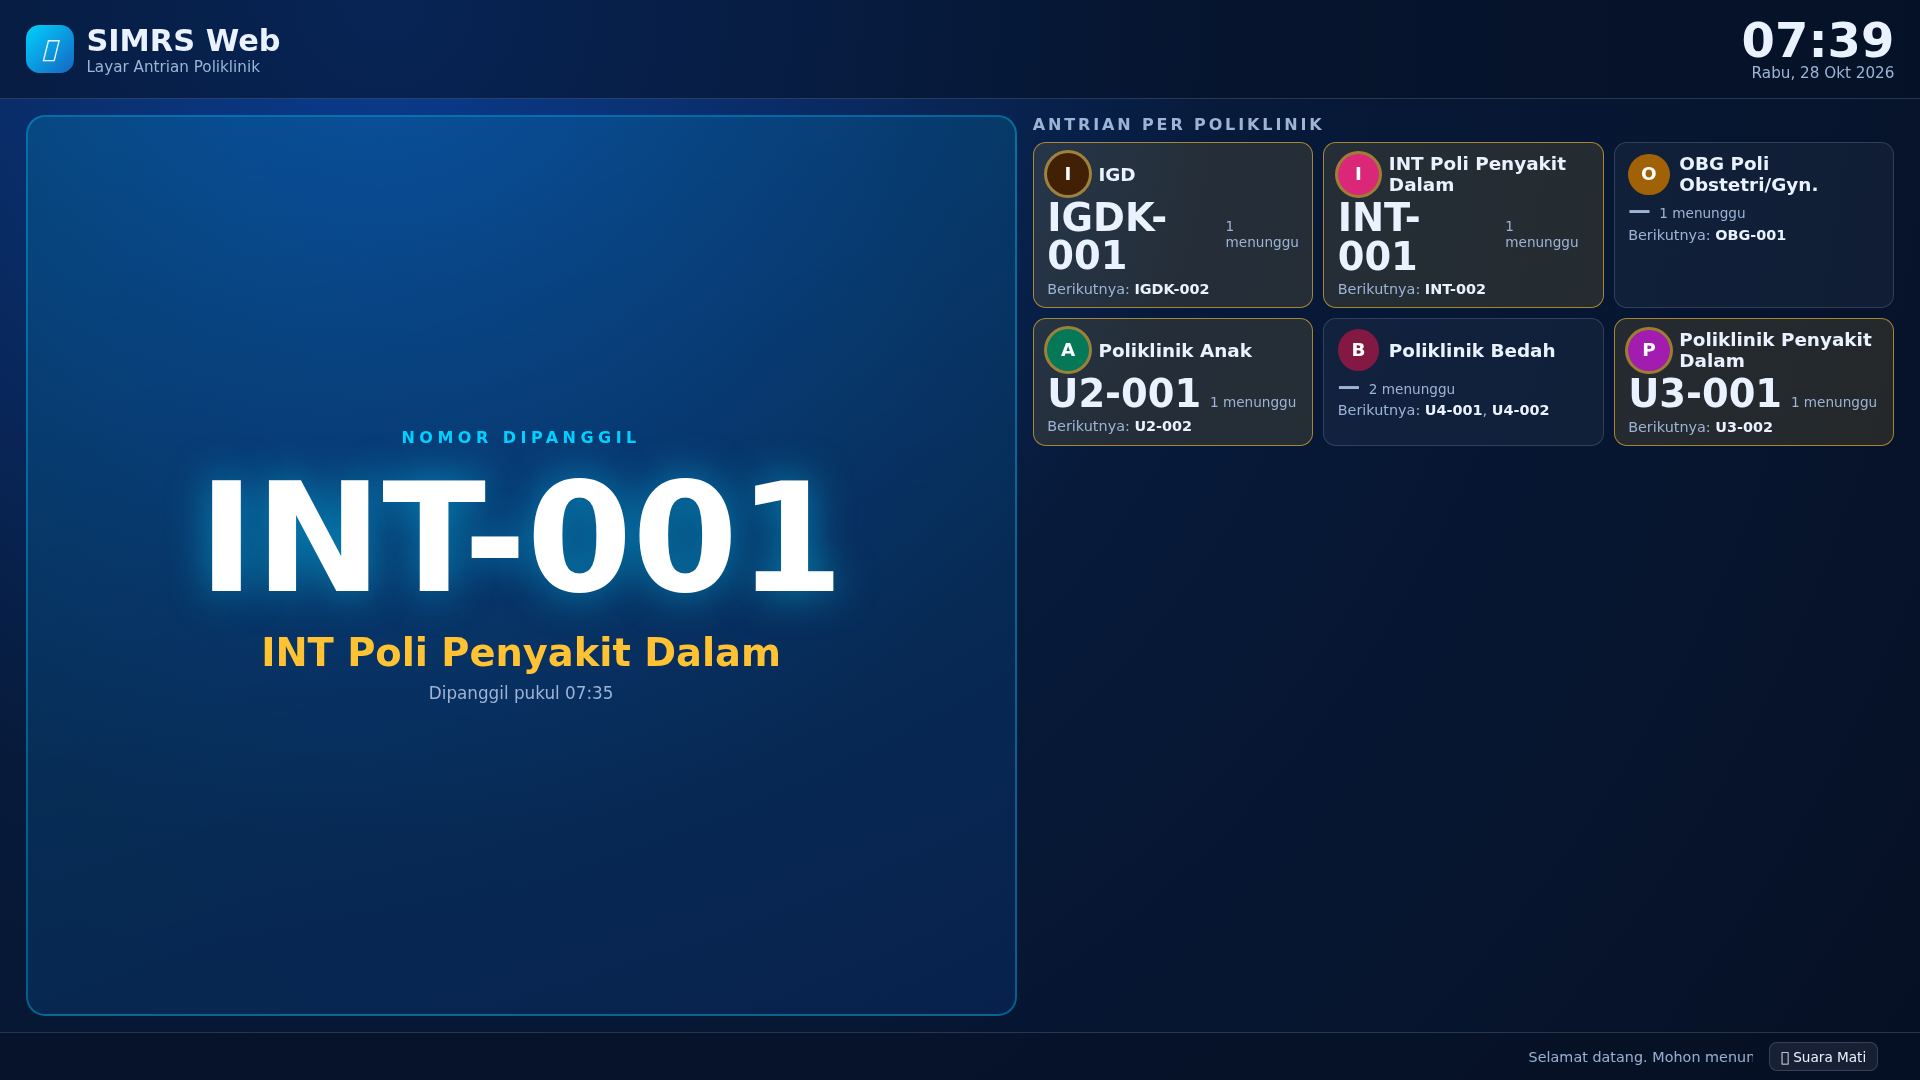
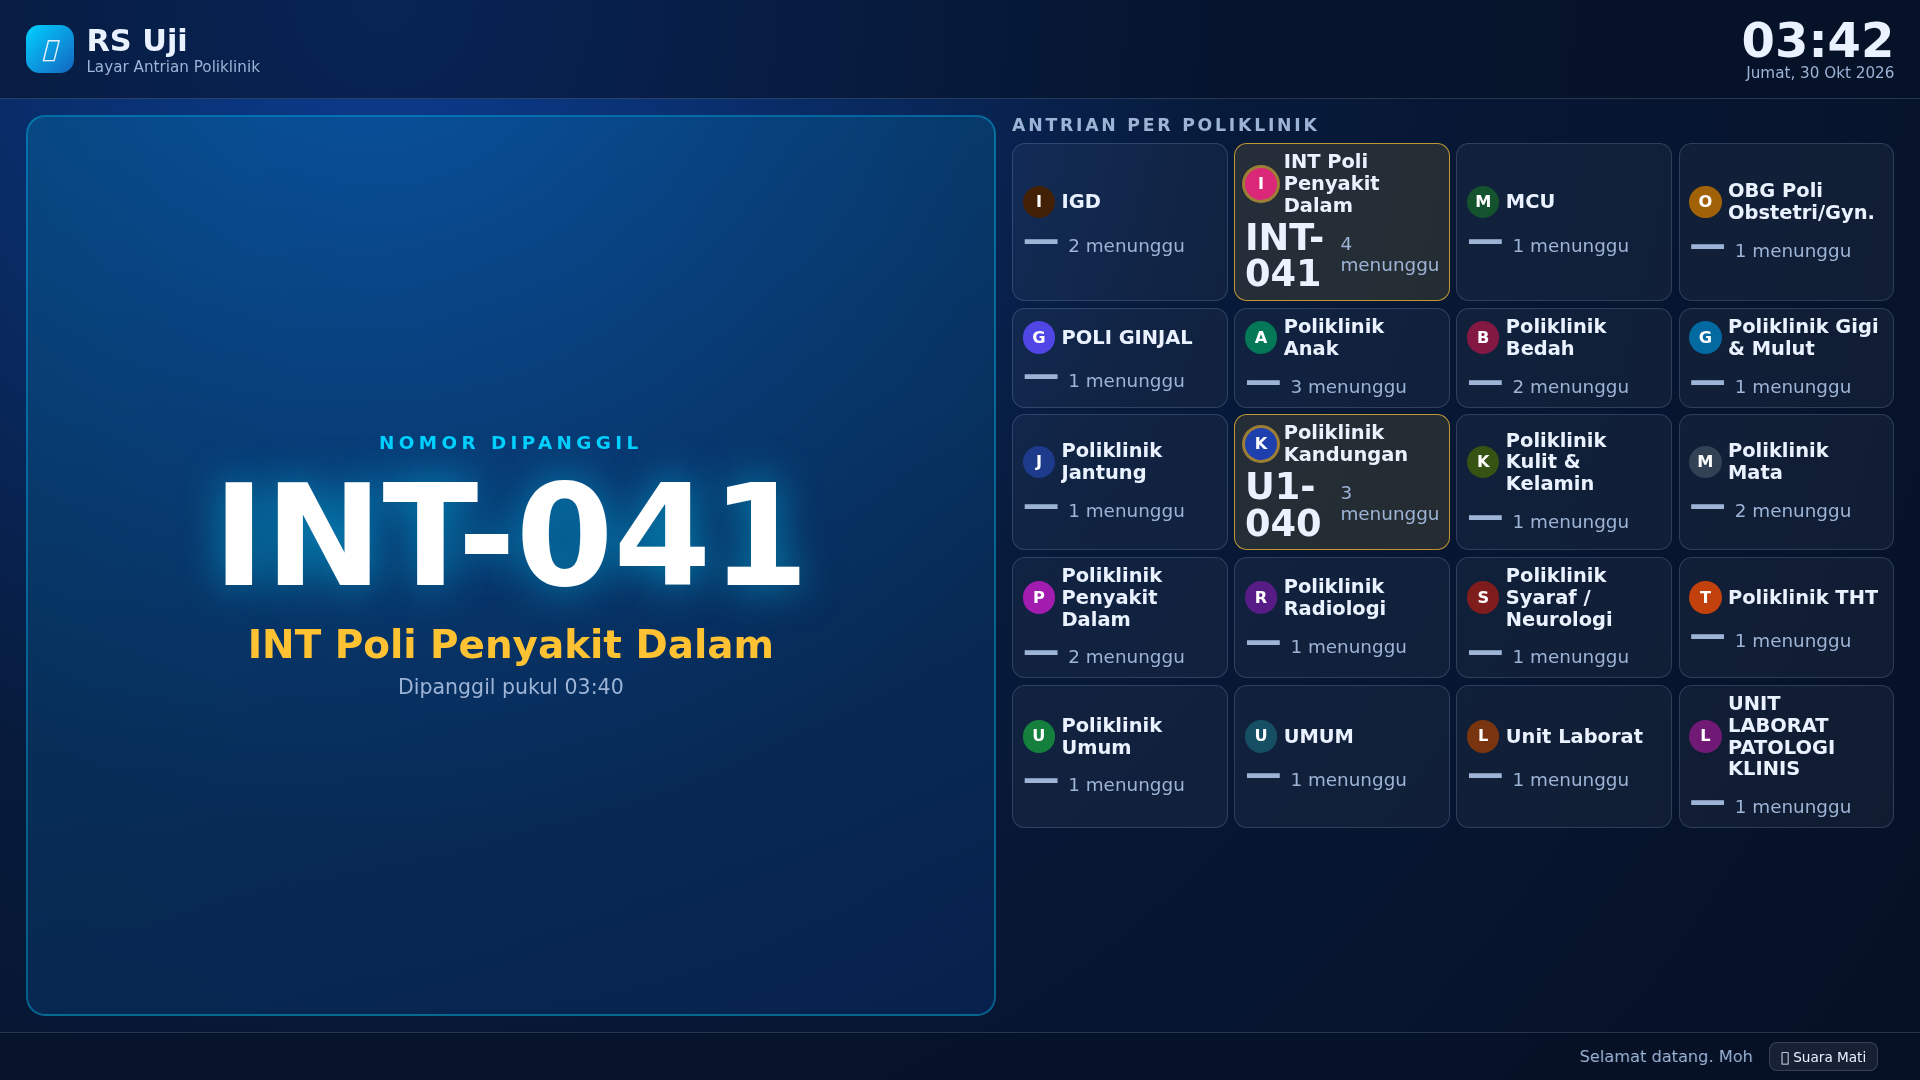
fix(display): perbaiki keterbacaan dan tata letak layar antrian ruang tunggu
Layar TV ruang tunggu dibaca dari jauh oleh pasien, jadi ukuran huruf dan
kelengkapan isi lebih penting daripada di halaman lain. Audit pada resolusi
TV nyata menemukan empat masalah:

1. Teks sekunder terlalu kecil untuk dibaca dari jauh. Skala memakai `vw`,
   sehingga pada 1080p hanya menyisakan 13-18px: "5 menunggu" 13,6px,
   "Berikutnya" 14,4px, nama poliklinik 18,4px. Skala diubah ke `vmin`
   (sisi terpendek layar), yang juga membuat ukuran stabil di TV 4:3 dan
   16:9: angka kartu 22,4 -> 36,7px, teks sekunder -> 18,4px.

2. Isi terpotong dan tidak bisa dijangkau. Daftar poliklinik memakai
   `minmax(15rem)` dengan `overflow:auto`, sehingga pada 1366x768 dan
   1280x720 ada 176-207px isi tersembunyi — poliklinik baris bawah tidak
   pernah terlihat, dan tidak ada yang bisa menggulir layar TV. Lebar kolom
   minimum diturunkan dan grid dibuat mengisi tinggi yang tersedia
   (`auto-fit`), sehingga semua poliklinik tampil tanpa gulir.

3. Nama poliklinik terpotong. Kartu hanya selebar 191px sementara namanya
   memakai font 28,8px, jadi "Poliklinik Penyakit Dalam" terpangkas sebelum
   kata pembedanya ("Dalam"). Font nama dipatok maksimum 1,5rem dan nama
   dibungkus `.nm-teks` dengan batas 3 baris, sehingga nama utuh.

4. Tinggi kartu tidak seragam karena jumlah baris nama berbeda-beda, jadi
   kartu tampak tidak rapi. Isi kartu kini ditengahkan vertikal.

Untuk rumah sakit dengan banyak poliklinik, ditambahkan mode rapat otomatis
[…]

diff --git a/pages/display.php b/pages/display.php
@@ -118,7 +118,7 @@ $nomorDipanggil = $panggilan !== null ? antrian_nomor_tampil((int)$panggilan['no
     .disp-clock .jam { font-size: clamp(1.6rem, 3.4vw, 3rem); font-weight: 700; font-variant-numeric: tabular-nums; line-height: 1; }
     .disp-clock .tanggal { color: var(--disp-muted); font-size: clamp(.7rem, 1vw, .95rem); }
 
-    .disp-main { flex: 1; display: grid; grid-template-columns: 1.15fr 1fr; gap: 1rem; padding: 1rem 1.6rem; min-height: 0; }
+    .disp-main { flex: 1; display: grid; grid-template-columns: 1.1fr 1fr; gap: 1rem; padding: 1rem 1.6rem; min-height: 0; }
 
     .disp-now {
       border-radius: 1.2rem;
@@ -127,49 +127,80 @@ $nomorDipanggil = $panggilan !== null ? antrian_nomor_tampil((int)$panggilan['no
       display: flex; flex-direction: column; align-items: center; justify-content: center;
       padding: 1rem; text-align: center; min-height: 0;
     }
-    .disp-now .label { color: var(--disp-accent); letter-spacing: .28em; text-transform: uppercase; font-size: clamp(.65rem, 1.1vw, 1rem); font-weight: 600; }
+    .disp-now .label { color: var(--disp-accent); letter-spacing: .24em; text-transform: uppercase; font-size: clamp(.8rem, 1.7vmin, 1.5rem); font-weight: 600; }
     .disp-now .nomor {
-      /* Nomor kini memuat kode poliklinik ("INT-007"), jadi ukurannya lebih kecil
-         dari sebelumnya supaya tetap muat satu baris di layar TV. */
-      font-size: clamp(2.6rem, 10.5vw, 9.5rem); font-weight: 800; line-height: 1;
+      /* Nomor memuat kode poliklinik ("INT-007"), dan skalanya dipatok ke sisi
+         terpendek layar (vmin) supaya tetap muat satu baris di TV 16:9 mana pun. */
+      font-size: clamp(2.4rem, 13vmin, 9rem); font-weight: 800; line-height: 1;
       font-variant-numeric: tabular-nums;
       color: #fff; text-shadow: 0 0 42px rgba(0, 209, 255, .55);
       margin: .1em 0;
     }
-    .disp-now .poli { font-size: clamp(1.1rem, 2.6vw, 2.4rem); font-weight: 600; color: var(--disp-gold); }
-    .disp-now .menunggu { color: var(--disp-muted); font-size: clamp(.75rem, 1.1vw, 1.05rem); margin-top: .5rem; }
-    .disp-now .kosong { color: var(--disp-muted); font-size: clamp(1rem, 2vw, 1.6rem); }
+    .disp-now .poli { font-size: clamp(1.1rem, 3.6vmin, 3.4rem); font-weight: 600; color: var(--disp-gold); }
+    .disp-now .menunggu { color: var(--disp-muted); font-size: clamp(.8rem, 1.9vmin, 1.6rem); margin-top: .5rem; }
+    .disp-now .kosong { color: var(--disp-muted); font-size: clamp(1rem, 2.4vmin, 2rem); }
 
     .disp-list { display: flex; flex-direction: column; min-height: 0; }
-    .disp-list h2 { margin: 0 0 .5rem; font-size: clamp(.75rem, 1.1vw, 1rem); letter-spacing: .18em; text-transform: uppercase; color: var(--disp-muted); }
-    .disp-cards { flex: 1; display: grid; grid-template-columns: repeat(auto-fill, minmax(15rem, 1fr)); gap: .6rem; overflow: auto; align-content: start; }
+    .disp-list h2 { margin: 0 0 .5rem; font-size: clamp(.75rem, 1.6vmin, 1.3rem); letter-spacing: .16em; text-transform: uppercase; color: var(--disp-muted); }
+    /* Semua poliklinik harus terlihat tanpa digulir: layar TV tidak dioperasikan
+       siapa pun, jadi isi di bawah lipatan sama saja hilang. Lebar kolom dibuat
+       kecil supaya jumlah kolom bertambah saat tinggi layar berkurang. */
+    .disp-cards { flex: 1; display: grid; grid-template-columns: repeat(auto-fit, minmax(min(100%, 11rem), 1fr)); gap: .55rem; overflow: auto; align-content: start; }
+    .disp-cards::-webkit-scrollbar { width: 8px; }
+    .disp-cards::-webkit-scrollbar-thumb { background: var(--disp-line); border-radius: 999px; }
+    /* Rumah sakit besar bisa punya >12 poliklinik aktif. Tanpa mode rapat,
+       poliklinik di baris bawah terpotong dan pasiennya tidak melihat nomornya.
+       Mode ini menyempitkan kolom, merapatkan jarak, dan melepas baris
+       "Berikutnya" — nomor berjalan dan jumlah menunggu tetap ditampilkan. */
+    .disp-cards.padat { grid-template-columns: repeat(auto-fit, minmax(min(100%, 8.75rem), 1fr)); gap: .4rem; }
+    .disp-cards.padat .disp-card { padding: .45rem .6rem; }
+    .disp-cards.padat .disp-card .next { display: none; }
+    .disp-cards.padat .disp-card .nm { font-size: clamp(.75rem, 1.8vmin, 1.5rem); margin-bottom: .2rem; }
+    /* Baris "Berikutnya" dilepas di mode rapat, jadi ada ruang untuk baris nama
+       keempat. Nama terpanjang ("UNIT LABORAT PATOLOGI KLINIS") butuh ini. */
+    .disp-cards.padat .disp-card .nm-teks { -webkit-line-clamp: 4; }
+
     .disp-card {
       border: 1px solid var(--disp-line); border-radius: .8rem;
       background: rgba(255, 255, 255, .045);
-      padding: .65rem .85rem;
+      padding: .6rem .75rem;
+      display: flex; flex-direction: column; justify-content: center; min-width: 0;
     }
     .disp-card.aktif { border-color: rgba(255, 194, 51, .6); background: rgba(255, 194, 51, .12); }
-    .disp-card .nm { display: flex; align-items: center; gap: .6rem; font-weight: 600; font-size: clamp(.85rem, 1.3vw, 1.15rem); margin-bottom: .25rem; }
+    .disp-card .nm { display: flex; align-items: center; gap: .4rem; font-weight: 600; font-size: clamp(.8rem, 1.6vmin, 1.5rem); line-height: 1.12; margin-bottom: .3rem; min-width: 0; }
+    /* Nama poliklinik adalah penanda utama bagi pasien, jadi jangan dipotong:
+       "INT Poli Penyakit Dalam" tidak boleh terpangkas jadi "...Penyakit".
+       Tiga baris cukup untuk semua nama di data, dan nama tetap utuh. */
+    .disp-card .nm-teks {
+      display: -webkit-box; -webkit-line-clamp: 3; -webkit-box-orient: vertical;
+      overflow: hidden; min-width: 0; overflow-wrap: anywhere;
+    }
     /* Pemisah warna per poliklinik — disalin dari simrs.css karena halaman ini
        sengaja tidak memuat CSS aplikasi. Warna tetap sama dengan modul Antrian. */
     .sk-poli-mark {
       display: inline-flex; align-items: center; justify-content: center;
-      width: 2.6rem; height: 2.6rem; flex: none; border-radius: 999px;
+      width: clamp(1.6rem, 3vmin, 2.6rem); height: clamp(1.6rem, 3vmin, 2.6rem);
+      flex: none; border-radius: 999px;
       background: var(--sk-poli, #0e7490); color: #fff;
-      font-size: 1.15rem; font-weight: 700; line-height: 1;
+      font-size: clamp(.75rem, 1.5vmin, 1.3rem); font-weight: 700; line-height: 1;
     }
     .disp-card.aktif .sk-poli-mark { box-shadow: 0 0 0 3px rgba(255, 194, 51, .55); }
+    @keyframes dispDenyut { 0%, 100% { border-color: rgba(255, 194, 51, .6); } 50% { border-color: rgba(255, 194, 51, 1); } }
+    .disp-card.aktif { animation: dispDenyut 2.2s ease-in-out infinite; }
+    @media (prefers-reduced-motion: reduce) { .disp-card.aktif { animation: none; } }
     .disp-card .baris { display: flex; align-items: baseline; gap: .55rem; }
-    .disp-card .angka { font-size: clamp(1.5rem, 2.8vw, 2.4rem); font-weight: 700; font-variant-numeric: tabular-nums; line-height: 1; }
-    .disp-card .angka.kosong { color: var(--disp-muted); font-size: 1.4rem; }
-    .disp-card .kecil { color: var(--disp-muted); font-size: clamp(.65rem, .9vw, .85rem); }
-    .disp-card .next { color: var(--disp-muted); font-size: clamp(.68rem, .95vw, .9rem); margin-top: .3rem; }
+    .disp-card .angka { font-size: clamp(1.3rem, 3.4vmin, 3.2rem); font-weight: 700; font-variant-numeric: tabular-nums; line-height: 1; }
+    /* Kartu yang belum dipanggil memakai ukuran sama, hanya diredupkan — ukuran
+       kecil membuat kartu tampak kosong saat dibaca dari jauh. */
+    .disp-card .angka.kosong { color: var(--disp-muted); }
+    .disp-card .kecil { color: var(--disp-muted); font-size: clamp(.7rem, 1.7vmin, 1.4rem); }
+    .disp-card .next { color: var(--disp-muted); font-size: clamp(.7rem, 1.7vmin, 1.4rem); margin-top: .3rem; }
     .disp-card .next b { color: var(--disp-fg); }
 
     .disp-footer {
       display: flex; align-items: center; justify-content: space-between; gap: 1rem;
       padding: .55rem 1.6rem; border-top: 1px solid var(--disp-line);
-      background: rgba(6, 16, 36, .6); font-size: clamp(.68rem, .95vw, .9rem); color: var(--disp-muted);
+      background: rgba(6, 16, 36, .6); font-size: clamp(.7rem, 1.5vmin, 1.1rem); color: var(--disp-muted);
     }
     .disp-ticker { flex: 1; overflow: hidden; white-space: nowrap; }
     .disp-ticker span { display: inline-block; padding-left: 100%; animation: ticker 28s linear infinite; }
@@ -181,6 +212,21 @@ $nomorDipanggil = $panggilan !== null ? antrian_nomor_tampil((int)$panggilan['no
     }
     .disp-btn[aria-pressed="true"] { border-color: var(--disp-accent); color: var(--disp-accent); }
     .disp-status { flex: none; }
+    /* Layar tinggi (1080p ke atas) punya ruang vertikal berlebih, jadi kolom
+       dibuat lebar agar nama poliklinik tidak terpotong. */
+    @media (min-height: 1000px) {
+      /* Layar tinggi: kolom dilebarkan (bukan diperbanyak) supaya nama poliklinik
+         tidak terpotong di monitor 1440p ke atas. */
+      .disp-cards { grid-template-columns: repeat(auto-fit, minmax(min(100%, 14rem), 1fr)); }
+      .disp-cards.padat { grid-template-columns: repeat(auto-fit, minmax(min(100%, 13rem), 1fr)); }
+    }
+    @media (max-height: 800px) {
+      /* Layar pendek: beri daftar lebih banyak lebar supaya kolom bertambah dan
+         barisnya berkurang — tinggi layar, bukan lebar, yang jadi kendala. */
+      .disp-main { grid-template-columns: .6fr 1fr; padding: .7rem 1.2rem; gap: .7rem; }
+      .disp-list h2 { margin-bottom: .35rem; }
+      .disp-cards { gap: .45rem; }
+    }
     @media (max-width: 900px) { .disp-main { grid-template-columns: 1fr; } }
   </style>
 </head>
@@ -215,11 +261,11 @@ $nomorDipanggil = $panggilan !== null ? antrian_nomor_tampil((int)$panggilan['no
 
     <section class="disp-list">
       <h2>Antrian per Poliklinik</h2>
-      <div class="disp-cards" id="daftarPoli">
+      <div class="disp-cards<?= count($ringkasan) > 12 ? ' padat' : '' ?>" id="daftarPoli">
         <?php foreach ($ringkasan as $r): ?>
           <?php $dipanggil = $r['nomor_dipanggil']; ?>
           <article class="disp-card<?= $dipanggil !== null ? ' aktif' : '' ?>" style="--sk-poli: <?= e(poli_warna((string)$r['kd_poli'])) ?>">
-            <div class="nm"><span class="sk-poli-mark sk-poli-mark-lg"><?= e(poli_awalan((string)$r['nm_poli'], (string)$r['kd_poli'])) ?></span><?= e($r['nm_poli']) ?></div>
+            <div class="nm"><span class="sk-poli-mark sk-poli-mark-lg"><?= e(poli_awalan((string)$r['nm_poli'], (string)$r['kd_poli'])) ?></span><span class="nm-teks"><?= e($r['nm_poli']) ?></span></div>
             <div class="baris">
               <?php if ($dipanggil !== null): ?>
                 <span class="angka"><?= e(antrian_nomor_tampil((int)$dipanggil, (string)$r['kd_poli'])) ?></span>
@@ -239,7 +285,7 @@ $nomorDipanggil = $panggilan !== null ? antrian_nomor_tampil((int)$panggilan['no
           </article>
         <?php endforeach; ?>
         <?php if (!$adaAntrian): ?>
-          <div class="disp-card"><div class="nm">Belum ada antrian hari ini</div>
+          <div class="disp-card"><div class="nm"><span class="nm-teks">Belum ada antrian hari ini</span></div>
             <div class="next">Nomor dibuat otomatis saat registrasi kunjungan.</div></div>
         <?php endif; ?>
       </div>
@@ -365,6 +411,8 @@ $nomorDipanggil = $panggilan !== null ? antrian_nomor_tampil((int)$panggilan['no
              '<div class="baris">' + angka + '<span class="kecil">' + r.menunggu + ' menunggu</span></div>' +
              '<div class="next">Berikutnya: ' + next + '</div></article>';
     });
+    // Mode rapat dihitung ulang tiap render karena daftar bisa bertambah/berkurang.
+    elDaftar.classList.toggle('padat', (data.daftar || []).length > 12);
     // Hari tanpa antrian: tetap tampilkan keterangan, jangan biarkan layar kosong.
     elDaftar.innerHTML = kartu.length
       ? kartu.join('')
